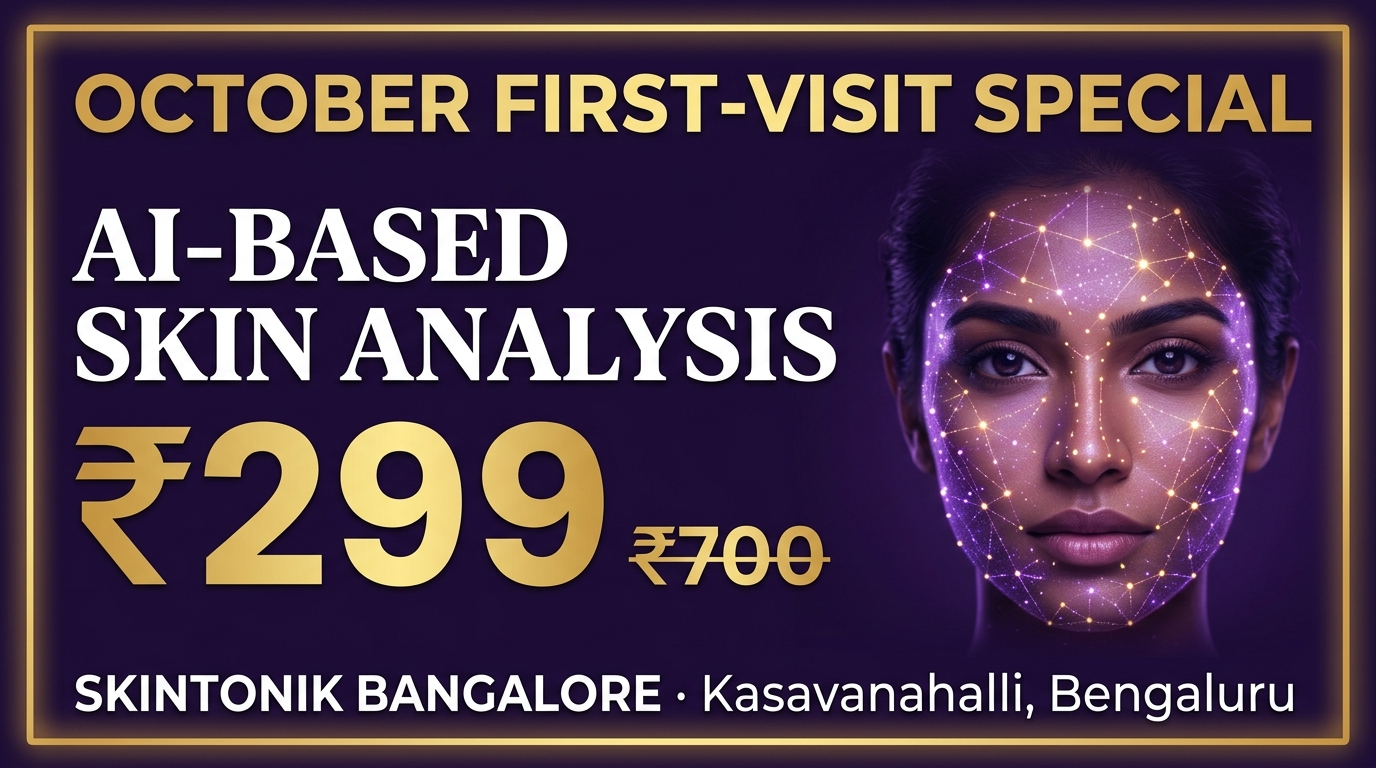
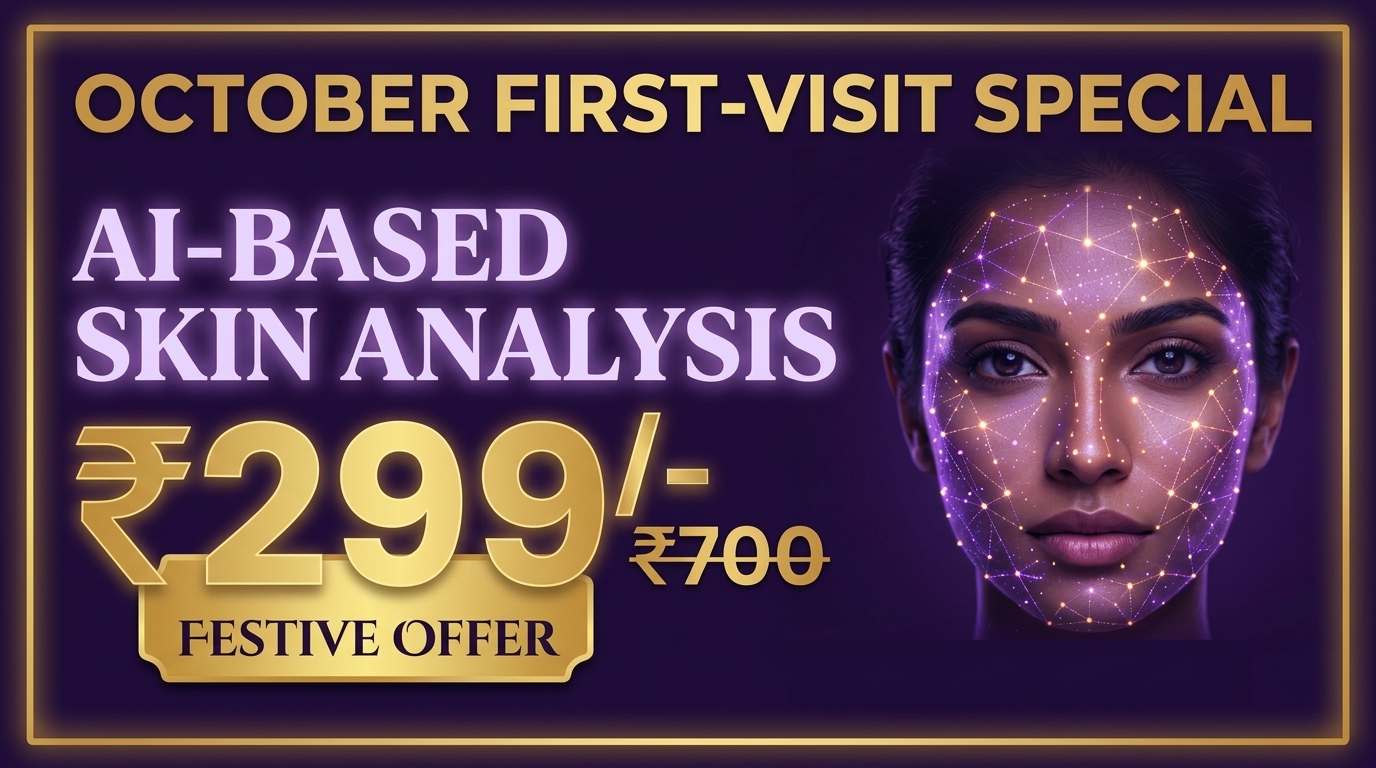
update October festive offer

Changed region(s): [[0.0312, 0.25, 0.9375, 0.9375]]

diff --git a/src/components/ConsultationForm.tsx b/src/components/ConsultationForm.tsx
@@ -6,8 +6,8 @@ export const ConsultationForm: React.FC = () => {
     fullName: '',
     mobileNumber: '',
     concern: '',
-    location: 'Kasavanahalli, Rajiv Nagar, Carmelaram, Bengaluru',
-    bestTimeToCall: 'Morning',
+    location: 'Kasavanahalli, Bengaluru',
+    bestTimeToCall: '',
   });
 
   const [errors, setErrors] = useState<Record<string, string>>({});
@@ -100,7 +100,7 @@ export const ConsultationForm: React.FC = () => {
           fullName: '',
           mobileNumber: '',
           concern: '',
-          location: 'Kasavanahalli, Rajiv Nagar, Carmelaram, Bengaluru',
+          location: 'Kasavanahalli, Bengaluru',
           bestTimeToCall: 'Morning',
         });
       } else {
@@ -200,7 +200,7 @@ export const ConsultationForm: React.FC = () => {
                   } focus:outline-none focus:border-[#271446] transition-colors ${!formData.concern ? 'text-[#52413E]/70' : 'text-[#271446]'
                   }`}
               >
-                <option value="" className="bg-white text-[#271446]">Select Your Concern</option>
+                <option value="" className="bg-white text-[#271446]">Select Your Concern*</option>
                 {concernsList.map((item) => (
                   <option key={item} value={item} className="bg-white text-[#271446]">
                     {item}
@@ -215,19 +215,19 @@ export const ConsultationForm: React.FC = () => {
                 name="best_time_to_call"
                 value={formData.bestTimeToCall}
                 onChange={(e) => setFormData({ ...formData, bestTimeToCall: e.target.value })}
-                required
-                className="w-full px-3.5 py-2.5 text-[12px] sm:text-[13px] rounded-lg border border-[#EAD7C5] bg-[#FBF8F3] focus:outline-none text-[#271446] font-medium"
+                className={`w-full px-3.5 py-2.5 text-[12px] sm:text-[13px] rounded-lg border border-[#EAD7C5] bg-[#FBF8F3] focus:outline-none focus:border-[#271446] transition-colors ${!formData.bestTimeToCall ? 'text-[#52413E]/70' : 'text-[#271446]'}`}
               >
-                <option value="Morning" className="bg-white text-[#271446]">Best time to call: Morning</option>
-                <option value="Afternoon" className="bg-white text-[#271446]">Best time to call: Afternoon</option>
-                <option value="Evening" className="bg-white text-[#271446]">Best time to call: Evening</option>
+                <option value="" className="bg-white text-[#271446]">Best Time to Call</option>
+                <option value="Morning" className="bg-white text-[#271446]">Morning</option>
+                <option value="Afternoon" className="bg-white text-[#271446]">Afternoon</option>
+                <option value="Evening" className="bg-white text-[#271446]">Evening</option>
               </select>
             </div>
 
             <div>
               <div className="w-full px-3.5 py-2.5 text-[11px] sm:text-[11.5px] rounded-lg border border-[#EAD7C5] bg-[#FBF8F3] text-[#271446] font-medium flex items-center gap-1.5 select-none shadow-xs">
                 <MapPin className="w-3.5 h-3.5 text-[#C59B27] shrink-0" />
-                <span className="truncate">Kasavanahalli, Rajiv Nagar, Carmelaram, Bengaluru</span>
+                <span className="truncate">Kasavanahalli, Bengaluru</span>
               </div>
             </div>
 

diff --git a/src/data/services.ts b/src/data/services.ts
@@ -8,64 +8,64 @@ export interface Service {
 }
 
 export const SERVICES: Service[] = [
-  { 
-    id: 'facials', 
-    name: 'Facials', 
+  {
+    id: 'facials',
+    name: 'Facials',
     description: 'Hydration, cleansing and glow-focused facial options.',
-    image: IMAGES.services.facials 
+    image: IMAGES.services.facials
   },
-  { 
-    id: 'peels', 
-    name: 'Chemical Peels', 
+  {
+    id: 'peels',
+    name: 'Chemical Peels',
     description: 'Peel options for concerns such as dullness, tanning, acne-prone skin and uneven-looking tone.',
-    image: IMAGES.services.peels 
+    image: IMAGES.services.peels
   },
-  { 
-    id: 'advanced-skin', 
-    name: 'Advanced Skin Treatments', 
+  {
+    id: 'advanced-skin',
+    name: 'Advanced Skin Treatments',
     description: 'Technology-led and injectable-supported skin rejuvenation options.',
-    image: IMAGES.services.advanced 
+    image: IMAGES.services.advanced
   },
-  { 
-    id: 'tightening-antiageing', 
-    name: 'Skin Tightening & Anti-Ageing', 
+  {
+    id: 'tightening-antiageing',
+    name: 'Skin Tightening & Anti-Ageing',
     description: 'Explore treatment options including Botox, fillers, threads and RF based on suitability.',
-    image: IMAGES.services.tightening 
+    image: IMAGES.services.tightening
   },
-  { 
-    id: 'hair-scalp', 
-    name: 'Hair & Scalp Treatments', 
+  {
+    id: 'hair-scalp',
+    name: 'Hair & Scalp Treatments',
     description: 'Scalp therapy, anti-dandruff treatment and advanced hair-support options.',
-    image: IMAGES.services.hair 
+    image: IMAGES.services.hair
   },
-  { 
-    id: 'laser-hair', 
-    name: 'Laser Hair Reduction', 
+  {
+    id: 'laser-hair',
+    name: 'Laser Hair Reduction',
     description: 'Packages for selected small areas or full-body treatment.',
-    image: IMAGES.services.laser 
+    image: IMAGES.services.laser
   },
-  { 
-    id: 'body-treatments', 
-    name: 'Body Treatments', 
+  {
+    id: 'body-treatments',
+    name: 'Body Treatments',
     description: 'Options for pigmentation, tanning and body skin concerns.',
-    image: IMAGES.services.body 
+    image: IMAGES.services.body
   },
-  { 
-    id: 'iv-drips', 
-    name: 'IV Drips & Weight Management', 
+  {
+    id: 'iv-drips',
+    name: 'IV Drips & Weight Management',
     description: 'Selected wellness and weight-management options.',
-    image: IMAGES.services.iv 
+    image: IMAGES.services.iv
   },
-  { 
-    id: 'wellness', 
-    name: 'Mental & Emotional Wellness', 
-    description: 'Private sessions for emotional and mental wellness support.',
-    image: IMAGES.services.wellness 
-  },
-  { 
-    id: 'analysis', 
-    name: 'Skin & Hair Analysis', 
+  // { 
+  //   id: 'wellness', 
+  //   name: 'Mental & Emotional Wellness', 
+  //   description: 'Private sessions for emotional and mental wellness support.',
+  //   image: IMAGES.services.wellness 
+  // },
+  {
+    id: 'analysis',
+    name: 'Skin & Hair Analysis',
     description: 'Start with analysis before choosing your treatment.',
-    image: IMAGES.services.analysis 
+    image: IMAGES.services.analysis
   },
 ];

diff --git a/src/components/Hero.tsx b/src/components/Hero.tsx
@@ -40,7 +40,7 @@ export const Hero: React.FC = () => {
           {/* Supporting Text */}
           <div className="space-y-2 md:space-y-2 lg:space-y-2.5 flex flex-col items-center md:items-start w-full">
             <p className="text-[12.5px] sm:text-[14px] md:text-[12px] lg:text-[13.5px] xl:text-[15px] font-bold text-[#C59B27] leading-snug">
-              Skin. Hair. Body. Wellness. All Under One Roof at Skintonik, Bengaluru.
+              Skin. Hair. Body. Wellness. All Under One Roof at Skintonik, Bengaluru-560035
             </p>
             <p className="text-[11px] sm:text-xs md:text-[11px] lg:text-[12px] xl:text-sm text-[#271446]/90 leading-relaxed font-normal">
               Laser hair removal, HydraFacial, pigmentation, acne and hair fall treatment on Sarjapur Road. Every price shown in full:
@@ -61,7 +61,7 @@ export const Hero: React.FC = () => {
                     {/* Location at bottom of card */}
                     <div className="flex items-center gap-1 text-[9.5px] sm:text-[11px] md:text-[8.5px] lg:text-[10px] text-white font-medium opacity-90 leading-tight pt-0.5 truncate">
                       <MapPin className="w-2.5 h-2.5 sm:w-3 sm:h-3 text-[#ffff] shrink-0" />
-                      <span className="truncate">Kasavanahalli, Rajiv Nagar, Carmelaram, Bengaluru – 560035</span>
+                      <span className="truncate">Kasavanahalli, Bengaluru</span>
                     </div>
                   </div>
                 </div>

diff --git a/src/components/PopularTreatments.tsx b/src/components/PopularTreatments.tsx
@@ -445,7 +445,7 @@ export const PopularTreatments: React.FC = () => {
         {/* ── FEATURED PACKAGES SECTION ── */}
         {currentSec.packages.length > 0 && (
           <div id="featured-packages" className="pt-6 space-y-4">
-            <h4 className="text-xs font-black tracking-widest text-[#271446] uppercase block">
+            <h4 className="text-lg font-bold bg-[#F3D167]/50 py-1 px-2 w-fit border rounded-r-full tracking-widest text-[#271446] uppercase block">
               FEATURED PACKAGES
             </h4>
 
@@ -528,8 +528,8 @@ export const PopularTreatments: React.FC = () => {
                   <button
                     onClick={handleBookClick}
                     className={`w-full inline-flex items-center justify-center gap-2 font-black text-xs sm:text-sm py-3 px-4 rounded-xl transition-all duration-200 cursor-pointer ${idx === 0
-                        ? 'bg-gradient-to-r from-[#D4AF37] via-[#E8C547] to-[#D4AF37] hover:from-[#E8C547] hover:to-[#D4AF37] text-[#271446] border border-[#B8860B] shadow-sm'
-                        : 'bg-[#271446] hover:bg-[#341b5c] text-white shadow-sm'
+                      ? 'bg-gradient-to-r from-[#D4AF37] via-[#E8C547] to-[#D4AF37] hover:from-[#E8C547] hover:to-[#D4AF37] text-[#271446] border border-[#B8860B] shadow-sm'
+                      : 'bg-[#271446] hover:bg-[#341b5c] text-white shadow-sm'
                       }`}
                   >
                     <span>Choose Package</span>

diff --git a/src/components/ClinicSection.tsx b/src/components/ClinicSection.tsx
@@ -38,7 +38,7 @@ export const ClinicSection: React.FC = () => {
               </p>
               <div className="flex items-center gap-2 text-xs font-semibold text-[#271446] mb-6">
                 <MessageCircle className="w-4 h-4 text-emerald-600 shrink-0" />
-                <span>WhatsApp: <a href="https://wa.me/919845263041" target="_blank" rel="noreferrer" className="text-emerald-700 font-bold hover:underline">+91 98452 63041</a></span>
+                <span>WhatsApp: <a href="https://wa.me/917387125717" target="_blank" rel="noreferrer" className="text-emerald-700 font-bold hover:underline">+91 73871 25717</a></span>
               </div>
             </div>
 
